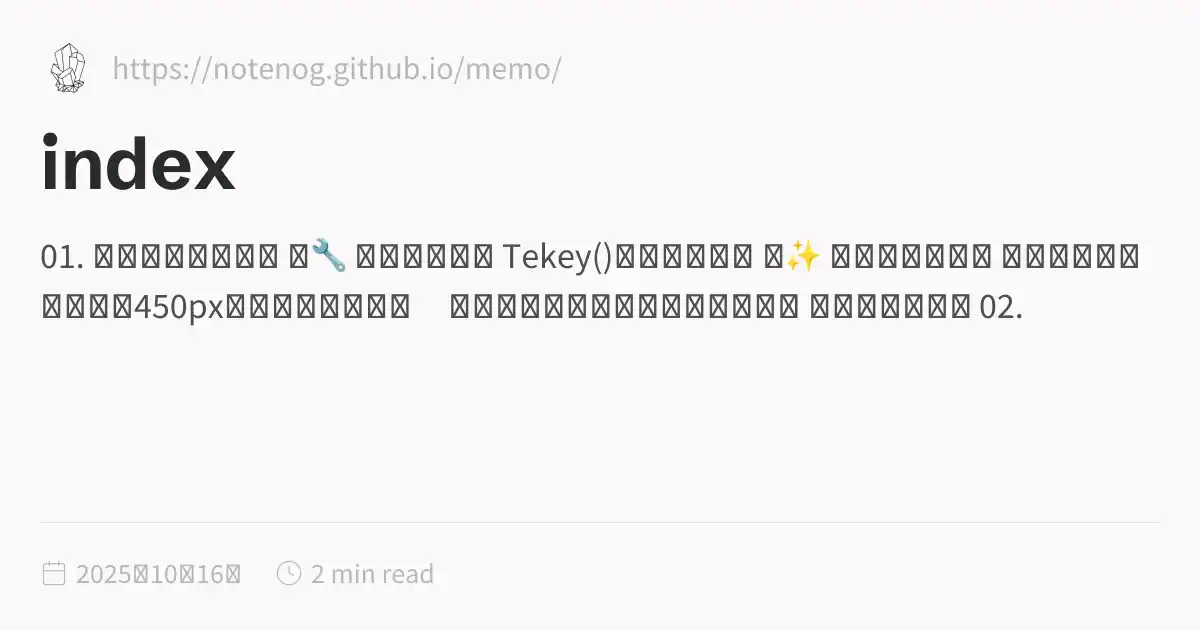
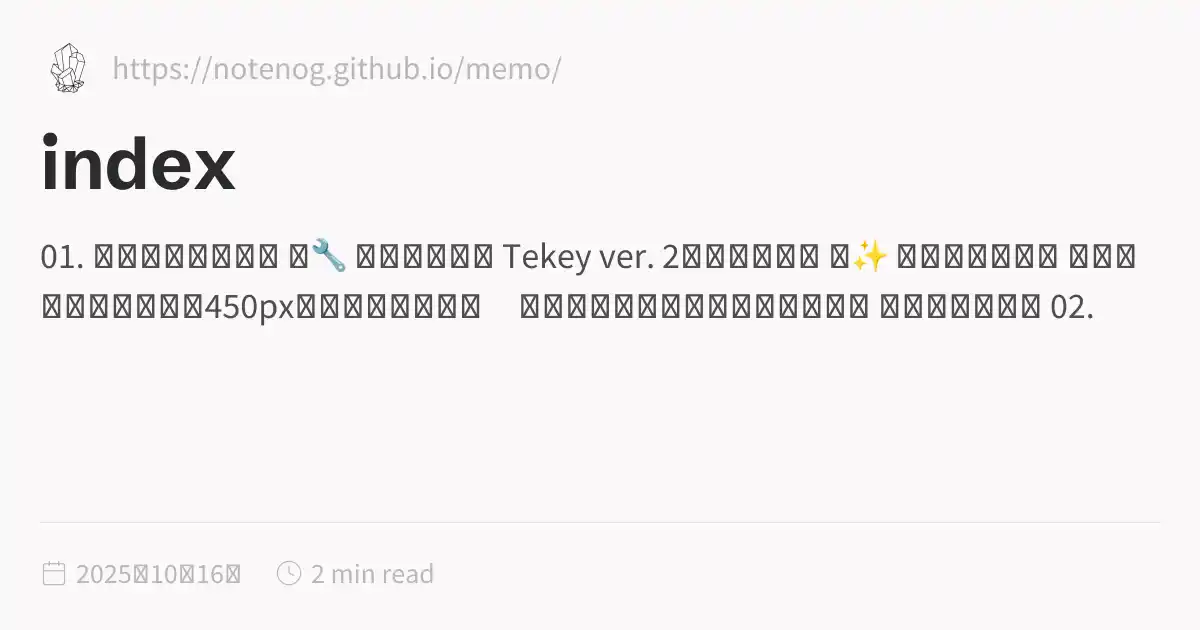
fix: Final push of clean assets with all content emitters disabled

Changed region(s): [[0.3392, 0.3619, 0.9558, 0.5127], [0.0925, 0.4524, 0.2467, 0.5127]]

diff --git a/docs/inSANe_old/index.html b/docs/inSANe_old/index.html
@@ -116,6 +116,6 @@ pre:hover > .expand-button {
   padding: 0 12px;
   font-size: 14px;
 }
[2 lines of base64/hex data omitted]
 </script><script type="module">function f(i,e){if(!i)return;function r(o){o.target===this&&(o.preventDefault(),o.stopPropagation(),e())}function t(o){o.key.startsWith("Esc")&&(o.preventDefault(),e())}i?.addEventListener("click",r),window.addCleanup(()=>i?.removeEventListener("click",r)),document.addEventListener("keydown",t),window.addCleanup(()=>document.removeEventListener("keydown",t))}function y(i){for(;i.firstChild;)i.removeChild(i.firstChild)}var h=class{constructor(e,r){this.container=e;this.content=r;this.setupEventListeners(),this.setupNavigationControls(),this.resetTransform()}isDragging=!1;startPan={x:0,y:0};currentPan={x:0,y:0};scale=1;MIN_SCALE=.5;MAX_SCALE=3;cleanups=[];setupEventListeners(){let e=this.onMouseDown.bind(this),r=this.onMouseMove.bind(this),t=this.onMouseUp.bind(this),o=this.resetTransform.bind(this);this.container.addEventListener("mousedown",e),document.addEventListener("mousemove",r),document.addEventListener("mouseup",t),window.addEventListener("resize",o),this.cleanups.push(()=>this.container.removeEventListener("mousedown",e),()=>document.removeEventListener("mousemove",r),()=>document.removeEventListener("mouseup",t),()=>window.removeEventListener("resize",o))}cleanup(){for(let e of this.cleanups)e()}setupNavigationControls(){let e=document.createElement("div");e.className="mermaid-controls";let r=this.createButton("+",()=>this.zoom(.1)),t=this.createButton("-",()=>this.zoom(-.1)),o=this.createButton("Reset",()=>this.resetTransform());e.appendChild(t),e.appendChild(o),e.appendChild(r),this.container.appendChild(e)}createButton(e,r){let t=document.createElement("button");return t.textContent=e,t.className="mermaid-control-button",t.addEventListener("click",r),window.addCleanup(()=>t.removeEventListener("click",r)),t}onMouseDown(e){e.button===0&&(this.isDragging=!0,this.startPan={x:e.clientX-this.currentPan.x,y:e.clientY-this.currentPan.y},this.container.style.cursor="grabbing")}onMouseMove(e){this.isDragging&&(e.preventDefault(),this.currentPan={x:e.clientX-this.startPan.x,y:e.clientY-this.startPan.y},this.updateTransform())}onMouseUp(){this.isDragging=!1,this.container.style.cursor="grab"}zoom(e){let r=Math.min(Math.max(this.scale+e,this.MIN_SCALE),this.MAX_SCALE),t=this.content.getBoundingClientRect(),o=t.width/2,n=t.height/2,c=r-this.scale;this.currentPan.x-=o*c,this.currentPan.y-=n*c,this.scale=r,this.updateTransform()}updateTransform(){this.content.style.transform=`translate(${this.currentPan.x}px, ${this.currentPan.y}px) scale(${this.scale})`}resetTransform(){this.scale=1;let e=this.content.querySelector("svg");this.currentPan={x:e.getBoundingClientRect().width/2,y:e.getBoundingClientRect().height/2},this.updateTransform()}},C=["--secondary","--tertiary","--gray","--light","--lightgray","--highlight","--dark","--darkgray","--codeFont"],E;document.addEventListener("nav",async()=>{let e=document.querySelector(".center").querySelectorAll("code.mermaid");if(e.length===0)return;E||=await import("https://cdnjs.cloudflare.com/ajax/libs/mermaid/11.4.0/mermaid.esm.min.mjs");let r=E.default,t=new WeakMap;for(let n of e)t.set(n,n.innerText);async function o(){for(let s of e){s.removeAttribute("data-processed");let a=t.get(s);a&&(s.innerHTML=a)}let n=C.reduce((s,a)=>(s[a]=window.getComputedStyle(document.documentElement).getPropertyValue(a),s),{}),c=document.documentElement.getAttribute("saved-theme")==="dark";r.initialize({startOnLoad:!1,securityLevel:"loose",theme:c?"dark":"base",themeVariables:{fontFamily:n["--codeFont"],primaryColor:n["--light"],primaryTextColor:n["--darkgray"],primaryBorderColor:n["--tertiary"],lineColor:n["--darkgray"],secondaryColor:n["--secondary"],tertiaryColor:n["--tertiary"],clusterBkg:n["--light"],edgeLabelBackground:n["--highlight"]}}),await r.run({nodes:e})}await o(),document.addEventListener("themechange",o),window.addCleanup(()=>document.removeEventListener("themechange",o));for(let n=0;n<e.length;n++){let v=function(){let g=l.querySelector("#mermaid-space"),m=l.querySelector(".mermaid-content");if(!m)return;y(m);let w=c.querySelector("svg").cloneNode(!0);m.appendChild(w),l.classList.add("active"),g.style.cursor="grab",u=new h(g,m)},M=function(){l.classList.remove("active"),u?.cleanup(),u=null},c=e[n],s=c.parentElement,a=s.querySelector(".clipboard-button"),d=s.querySelector(".expand-button"),p=window.getComputedStyle(a),L=a.offsetWidth+parseFloat(p.marginLeft||"0")+parseFloat(p.marginRight||"0");d.style.right=`calc(${L}px + 0.3rem)`,s.prepend(d);let l=s.querySelector("#mermaid-container");if(!l)return;let u=null;d.addEventListener("click",v),f(l,M),window.addCleanup(()=>{u?.cleanup(),d.removeEventListener("click",v)})}});
 </script><script src="https://cdn.jsdelivr.net/npm/katex@0.16.11/dist/contrib/copy-tex.min.js" type="application/javascript"></script><script src="../postscript.js" type="module"></script></html>

diff --git a/docs/inSANe_old/inSANe_ond_kyo.html b/docs/inSANe_old/inSANe_ond_kyo.html
@@ -1,0 +1,145 @@
+<!DOCTYPE html>
+<html lang="ja" dir="ltr"><head><title>💃 共演者ルール</title><meta charset="utf-8"/><link rel="preconnect" href="https://fonts.googleapis.com"/><link rel="preconnect" href="https://fonts.gstatic.com"/><link rel="stylesheet" href="https://fonts.googleapis.com/css2?family=Schibsted Grotesk:wght@400;700&amp;family=Source Sans Pro:ital,wght@0,400;0,600;1,400;1,600&amp;family=IBM Plex Mono:wght@400;600&amp;display=swap"/><link rel="preconnect" href="https://cdnjs.cloudflare.com" crossorigin="anonymous"/><meta name="viewport" content="width=device-width, initial-scale=1.0"/><meta name="og:site_name" content="MEMO"/><meta property="og:title" content="💃 共演者ルール"/><meta property="og:type" content="website"/><meta name="twitter:card" content="summary_large_image"/><meta name="twitter:title" content="💃 共演者ルール"/><meta name="twitter:description" content="共演者(ゲスト)とは、PCと同等の動きをするNPCのことを指します。以下のものはインセインp228「NPC」、p229「共演者」の記述等参照のうえ、大々的に調整してあるハウスルールです。「共演者ルールを採用する」という記述のあるセッションの際は必ずご確認を願います。 【💃 共演者ルール】 共演者はPCと同じようにCSを作成し特技・アビリティ・アイテムを使用する。 調査判定、感情判定、恐怖判定、戦闘等の通常PCが可能な行為判定や修正の全てを自発的に行う。 共演者の手番は全てのPCの行動の後に行う。あるいは、全員の手番をダイスで決定する場合は共演者もダイスロールに参加し順番を決定する。 共演者..."/><meta property="og:description" content="共演者(ゲスト)とは、PCと同等の動きをするNPCのことを指します。以下のものはインセインp228「NPC」、p229「共演者」の記述等参照のうえ、大々的に調整してあるハウスルールです。「共演者ルールを採用する」という記述のあるセッションの際は必ずご確認を願います。 【💃 共演者ルール】 共演者はPCと同じようにCSを作成し特技・アビリティ・アイテムを使用する。 調査判定、感情判定、恐怖判定、戦闘等の通常PCが可能な行為判定や修正の全てを自発的に行う。 共演者の手番は全てのPCの行動の後に行う。あるいは、全員の手番をダイスで決定する場合は共演者もダイスロールに参加し順番を決定する。 共演者..."/><meta property="og:image:alt" content="共演者(ゲスト)とは、PCと同等の動きをするNPCのことを指します。以下のものはインセインp228「NPC」、p229「共演者」の記述等参照のうえ、大々的に調整してあるハウスルールです。「共演者ルールを採用する」という記述のあるセッションの際は必ずご確認を願います。 【💃 共演者ルール】 共演者はPCと同じようにCSを作成し特技・アビリティ・アイテムを使用する。 調査判定、感情判定、恐怖判定、戦闘等の通常PCが可能な行為判定や修正の全てを自発的に行う。 共演者の手番は全てのPCの行動の後に行う。あるいは、全員の手番をダイスで決定する場合は共演者もダイスロールに参加し順番を決定する。 共演者..."/><meta property="twitter:domain" content="https://notenog.github.io/memo/"/><meta property="og:url" content="https://https//notenog.github.io/memo/inSANe_old/inSANe_ond_kyo"/><meta property="twitter:url" content="https://https//notenog.github.io/memo/inSANe_old/inSANe_ond_kyo"/><link rel="icon" href="../static/icon.png"/><meta name="description" content="共演者(ゲスト)とは、PCと同等の動きをするNPCのことを指します。以下のものはインセインp228「NPC」、p229「共演者」の記述等参照のうえ、大々的に調整してあるハウスルールです。「共演者ルールを採用する」という記述のあるセッションの際は必ずご確認を願います。 【💃 共演者ルール】 共演者はPCと同じようにCSを作成し特技・アビリティ・アイテムを使用する。 調査判定、感情判定、恐怖判定、戦闘等の通常PCが可能な行為判定や修正の全てを自発的に行う。 共演者の手番は全てのPCの行動の後に行う。あるいは、全員の手番をダイスで決定する場合は共演者もダイスロールに参加し順番を決定する。 共演者..."/><meta name="generator" content="Quartz"/><link href="../index.css" rel="stylesheet" type="text/css" spa-preserve/><style>.expand-button {
+  position: absolute;
+  display: flex;
+  float: right;
+  padding: 0.4rem;
+  margin: 0.3rem;
+  right: 0;
+  color: var(--gray);
+  border-color: var(--dark);
+  background-color: var(--light);
+  border: 1px solid;
+  border-radius: 5px;
+  opacity: 0;
+  transition: 0.2s;
+}
+.expand-button > svg {
+  fill: var(--light);
+  filter: contrast(0.3);
+}
+.expand-button:hover {
+  cursor: pointer;
+  border-color: var(--secondary);
+}
+.expand-button:focus {
+  outline: 0;
+}
+
+pre:hover > .expand-button {
+  opacity: 1;
+  transition: 0.2s;
+}
+
+#mermaid-container {
+  position: fixed;
+  contain: layout;
+  z-index: 999;
+  left: 0;
+  top: 0;
+  width: 100vw;
+  height: 100vh;
+  overflow: hidden;
+  display: none;
+  backdrop-filter: blur(4px);
+  background: rgba(0, 0, 0, 0.5);
+}
+#mermaid-container.active {
+  display: inline-block;
+}
+#mermaid-container > #mermaid-space {
+  border: 1px solid var(--lightgray);
+  background-color: var(--light);
+  border-radius: 5px;
+  position: fixed;
+  top: 50%;
+  left: 50%;
+  transform: translate(-50%, -50%);
+  height: 80vh;
+  width: 80vw;
+  overflow: hidden;
+}
+#mermaid-container > #mermaid-space > .mermaid-content {
+  padding: 2rem;
+  position: relative;
+  transform-origin: 0 0;
+  transition: transform 0.1s ease;
+  overflow: visible;
+  min-height: 200px;
+  min-width: 200px;
+}
+#mermaid-container > #mermaid-space > .mermaid-content pre {
+  margin: 0;
+  border: none;
+}
+#mermaid-container > #mermaid-space > .mermaid-content svg {
+  max-width: none;
+  height: auto;
+}
+#mermaid-container > #mermaid-space > .mermaid-controls {
+  position: absolute;
+  bottom: 20px;
+  right: 20px;
+  display: flex;
+  gap: 8px;
+  padding: 8px;
+  background: var(--light);
+  border: 1px solid var(--lightgray);
+  border-radius: 6px;
+  box-shadow: 0 2px 4px rgba(0, 0, 0, 0.1);
+  z-index: 2;
+}
+#mermaid-container > #mermaid-space > .mermaid-controls .mermaid-control-button {
+  display: flex;
+  align-items: center;
+  justify-content: center;
+  width: 32px;
+  height: 32px;
+  padding: 0;
+  border: 1px solid var(--lightgray);
+  background: var(--light);
+  color: var(--dark);
+  border-radius: 4px;
+  cursor: pointer;
+  font-size: 16px;
+  font-family: var(--bodyFont);
+  transition: all 0.2s ease;
+}
+#mermaid-container > #mermaid-space > .mermaid-controls .mermaid-control-button:hover {
+  background: var(--lightgray);
+}
+#mermaid-container > #mermaid-space > .mermaid-controls .mermaid-control-button:active {
+  transform: translateY(1px);
+}
+#mermaid-container > #mermaid-space > .mermaid-controls .mermaid-control-button:nth-child(2) {
+  width: auto;
+  padding: 0 12px;
+  font-size: 14px;
+}
[1 lines of base64/hex data omitted]
+<br/>
+<br/>
+<blockquote class="callout info is-collapsible is-collapsed" data-callout="info" data-callout-fold>
+<div class="callout-title">
+                  <div class="callout-icon"></div>
+                  <div class="callout-title-inner"><p> <br/>共演者(ゲスト)とは、PCと同等の動きをするNPCのことを指します。<br/>以下のものはインセインp228「NPC」、p229「共演者」の記述等参照のうえ、大々的に調整してあるハウスルールです。<br/><br/>「共演者ルールを採用する」という記述のあるセッションの際は必ずご確認を願います。<br/><br/></p></div>
+                  <div class="fold-callout-icon"></div>
+                </div>
+</blockquote>
+<br/>
+<br/>
+<h1 id="-共演者ルール">【💃 共演者ルール】<a role="anchor" aria-hidden="true" tabindex="-1" data-no-popover="true" href="#-共演者ルール" class="internal"><svg width="18" height="18" viewBox="0 0 24 24" fill="none" stroke="currentColor" stroke-width="2" stroke-linecap="round" stroke-linejoin="round"><path d="M10 13a5 5 0 0 0 7.54.54l3-3a5 5 0 0 0-7.07-7.07l-1.72 1.71"></path><path d="M14 11a5 5 0 0 0-7.54-.54l-3 3a5 5 0 0 0 7.07 7.07l1.71-1.71"></path></svg></a></h1>
+<hr/>
+<ul>
+<li>共演者はPCと同じようにCSを作成し特技・アビリティ・アイテムを使用する。</li>
+<li>調査判定、感情判定、恐怖判定、戦闘等の通常PCが可能な行為判定や修正の全てを自発的に行う。</li>
+<li>共演者の手番は全てのPCの行動の後に行う。<br/>あるいは、全員の手番をダイスで決定する場合は共演者もダイスロールに参加し順番を決定する。</li>
+<li>共演者は「回想」を行う。(行わない場合は事前に告知する)</li>
+<li>クライマックスフェイズで共演者の生命力が０になった場合、それを行ったプレイヤーはその共演者を死亡させるかを選ぶことが出来る。</li>
+<li>共演者は死亡時の「攻撃」や「遺言」を使用することは出来ない。</li>
+<li>功績点「ロールプレイ」において、共演者は除外される。</li>
+<li>功績点「琴線」において、共演者を選ぶことは出来ない。</li>
+</ul>
+<p><br/><br/><br/></p></article><hr/><div class="page-footer"></div></div><div class="right sidebar"><div class="search"><button class="search-button"><svg role="img" xmlns="http://www.w3.org/2000/svg" viewBox="0 0 19.9 19.7"><title>Search</title><g class="search-path" fill="none"><path stroke-linecap="square" d="M18.5 18.3l-5.4-5.4"></path><circle cx="8" cy="8" r="7"></circle></g></svg><p>Search</p></button><div class="search-container"><div class="search-space"><input autocomplete="off" class="search-bar" name="search" type="text" aria-label="検索ワードを入力" placeholder="検索ワードを入力"/><div class="search-layout" data-preview="true"></div></div></div></div></div><footer class><p>Created with <a href="https://quartz.jzhao.xyz/">Quartz v4.5.2</a> © 2025</p><ul><li><a href="https://discordapp.com/users/318729033737043969">@disconog</a></li></ul></footer></div></div></body><script type="application/javascript">function n(){let t=this.parentElement;t.classList.toggle("is-collapsed");let e=t.getElementsByClassName("callout-content")[0];if(!e)return;let l=t.classList.contains("is-collapsed");e.style.gridTemplateRows=l?"0fr":"1fr"}function c(){let t=document.getElementsByClassName("callout is-collapsible");for(let e of t){let l=e.getElementsByClassName("callout-title")[0],s=e.getElementsByClassName("callout-content")[0];if(!l||!s)continue;l.addEventListener("click",n),window.addCleanup(()=>l.removeEventListener("click",n));let o=e.classList.contains("is-collapsed");s.style.gridTemplateRows=o?"0fr":"1fr"}}document.addEventListener("nav",c);
+</script><script type="module">function f(i,e){if(!i)return;function r(o){o.target===this&&(o.preventDefault(),o.stopPropagation(),e())}function t(o){o.key.startsWith("Esc")&&(o.preventDefault(),e())}i?.addEventListener("click",r),window.addCleanup(()=>i?.removeEventListener("click",r)),document.addEventListener("keydown",t),window.addCleanup(()=>document.removeEventListener("keydown",t))}function y(i){for(;i.firstChild;)i.removeChild(i.firstChild)}var h=class{constructor(e,r){this.container=e;this.content=r;this.setupEventListeners(),this.setupNavigationControls(),this.resetTransform()}isDragging=!1;startPan={x:0,y:0};currentPan={x:0,y:0};scale=1;MIN_SCALE=.5;MAX_SCALE=3;cleanups=[];setupEventListeners(){let e=this.onMouseDown.bind(this),r=this.onMouseMove.bind(this),t=this.onMouseUp.bind(this),o=this.resetTransform.bind(this);this.container.addEventListener("mousedown",e),document.addEventListener("mousemove",r),document.addEventListener("mouseup",t),window.addEventListener("resize",o),this.cleanups.push(()=>this.container.removeEventListener("mousedown",e),()=>document.removeEventListener("mousemove",r),()=>document.removeEventListener("mouseup",t),()=>window.removeEventListener("resize",o))}cleanup(){for(let e of this.cleanups)e()}setupNavigationControls(){let e=document.createElement("div");e.className="mermaid-controls";let r=this.createButton("+",()=>this.zoom(.1)),t=this.createButton("-",()=>this.zoom(-.1)),o=this.createButton("Reset",()=>this.resetTransform());e.appendChild(t),e.appendChild(o),e.appendChild(r),this.container.appendChild(e)}createButton(e,r){let t=document.createElement("button");return t.textContent=e,t.className="mermaid-control-button",t.addEventListener("click",r),window.addCleanup(()=>t.removeEventListener("click",r)),t}onMouseDown(e){e.button===0&&(this.isDragging=!0,this.startPan={x:e.clientX-this.currentPan.x,y:e.clientY-this.currentPan.y},this.container.style.cursor="grabbing")}onMouseMove(e){this.isDragging&&(e.preventDefault(),this.currentPan={x:e.clientX-this.startPan.x,y:e.clientY-this.startPan.y},this.updateTransform())}onMouseUp(){this.isDragging=!1,this.container.style.cursor="grab"}zoom(e){let r=Math.min(Math.max(this.scale+e,this.MIN_SCALE),this.MAX_SCALE),t=this.content.getBoundingClientRect(),o=t.width/2,n=t.height/2,c=r-this.scale;this.currentPan.x-=o*c,this.currentPan.y-=n*c,this.scale=r,this.updateTransform()}updateTransform(){this.content.style.transform=`translate(${this.currentPan.x}px, ${this.currentPan.y}px) scale(${this.scale})`}resetTransform(){this.scale=1;let e=this.content.querySelector("svg");this.currentPan={x:e.getBoundingClientRect().width/2,y:e.getBoundingClientRect().height/2},this.updateTransform()}},C=["--secondary","--tertiary","--gray","--light","--lightgray","--highlight","--dark","--darkgray","--codeFont"],E;document.addEventListener("nav",async()=>{let e=document.querySelector(".center").querySelectorAll("code.mermaid");if(e.length===0)return;E||=await import("https://cdnjs.cloudflare.com/ajax/libs/mermaid/11.4.0/mermaid.esm.min.mjs");let r=E.default,t=new WeakMap;for(let n of e)t.set(n,n.innerText);async function o(){for(let s of e){s.removeAttribute("data-processed");let a=t.get(s);a&&(s.innerHTML=a)}let n=C.reduce((s,a)=>(s[a]=window.getComputedStyle(document.documentElement).getPropertyValue(a),s),{}),c=document.documentElement.getAttribute("saved-theme")==="dark";r.initialize({startOnLoad:!1,securityLevel:"loose",theme:c?"dark":"base",themeVariables:{fontFamily:n["--codeFont"],primaryColor:n["--light"],primaryTextColor:n["--darkgray"],primaryBorderColor:n["--tertiary"],lineColor:n["--darkgray"],secondaryColor:n["--secondary"],tertiaryColor:n["--tertiary"],clusterBkg:n["--light"],edgeLabelBackground:n["--highlight"]}}),await r.run({nodes:e})}await o(),document.addEventListener("themechange",o),window.addCleanup(()=>document.removeEventListener("themechange",o));for(let n=0;n<e.length;n++){let v=function(){let g=l.querySelector("#mermaid-space"),m=l.querySelector(".mermaid-content");if(!m)return;y(m);let w=c.querySelector("svg").cloneNode(!0);m.appendChild(w),l.classList.add("active"),g.style.cursor="grab",u=new h(g,m)},M=function(){l.classList.remove("active"),u?.cleanup(),u=null},c=e[n],s=c.parentElement,a=s.querySelector(".clipboard-button"),d=s.querySelector(".expand-button"),p=window.getComputedStyle(a),L=a.offsetWidth+parseFloat(p.marginLeft||"0")+parseFloat(p.marginRight||"0");d.style.right=`calc(${L}px + 0.3rem)`,s.prepend(d);let l=s.querySelector("#mermaid-container");if(!l)return;let u=null;d.addEventListener("click",v),f(l,M),window.addCleanup(()=>{u?.cleanup(),d.removeEventListener("click",v)})}});
+</script><script src="https://cdn.jsdelivr.net/npm/katex@0.16.11/dist/contrib/copy-tex.min.js" type="application/javascript"></script><script src="../postscript.js" type="module"></script></html>

diff --git a/docs/index.html b/docs/index.html
@@ -1,5 +1,5 @@
 <!DOCTYPE html>
-<html lang="ja" dir="ltr"><head><title>index</title><meta charset="utf-8"/><link rel="preconnect" href="https://fonts.googleapis.com"/><link rel="preconnect" href="https://fonts.gstatic.com"/><link rel="stylesheet" href="https://fonts.googleapis.com/css2?family=Schibsted Grotesk:wght@400;700&amp;family=Source Sans Pro:ital,wght@0,400;0,600;1,400;1,600&amp;family=IBM Plex Mono:wght@400;600&amp;display=swap"/><link rel="preconnect" href="https://cdnjs.cloudflare.com" crossorigin="anonymous"/><meta name="viewport" content="width=device-width, initial-scale=1.0"/><meta name="og:site_name" content="MEMO"/><meta property="og:title" content="index"/><meta property="og:type" content="website"/><meta name="twitter:card" content="summary_large_image"/><meta name="twitter:title" content="index"/><meta name="twitter:description" content="01. セッション前準備 【🔧 使用ツール】 Tekey()を使用します 【✨ 立ち絵サイズ】 用意される場合は、縦450pxを基準に、「股下～膝上」程度にカットを推奨します 横幅は自由です 02."/><meta property="og:description" content="01. セッション前準備 【🔧 使用ツール】 Tekey()を使用します 【✨ 立ち絵サイズ】 用意される場合は、縦450pxを基準に、「股下～膝上」程度にカットを推奨します 横幅は自由です 02."/><meta property="og:image:alt" content="01. セッション前準備 【🔧 使用ツール】 Tekey()を使用します 【✨ 立ち絵サイズ】 用意される場合は、縦450pxを基準に、「股下～膝上」程度にカットを推奨します 横幅は自由です 02."/><meta property="twitter:domain" content="https://notenog.github.io/memo/"/><meta property="og:url" content="https://https//notenog.github.io/memo/index"/><meta property="twitter:url" content="https://https//notenog.github.io/memo/index"/><link rel="icon" href="./static/icon.png"/><meta name="description" content="01. セッション前準備 【🔧 使用ツール】 Tekey()を使用します 【✨ 立ち絵サイズ】 用意される場合は、縦450pxを基準に、「股下～膝上」程度にカットを推奨します 横幅は自由です 02."/><meta name="generator" content="Quartz"/><link href="./index.css" rel="stylesheet" type="text/css" spa-preserve/><style>.expand-button {
+<html lang="ja" dir="ltr"><head><title>index</title><meta charset="utf-8"/><link rel="preconnect" href="https://fonts.googleapis.com"/><link rel="preconnect" href="https://fonts.gstatic.com"/><link rel="stylesheet" href="https://fonts.googleapis.com/css2?family=Schibsted Grotesk:wght@400;700&amp;family=Source Sans Pro:ital,wght@0,400;0,600;1,400;1,600&amp;family=IBM Plex Mono:wght@400;600&amp;display=swap"/><link rel="preconnect" href="https://cdnjs.cloudflare.com" crossorigin="anonymous"/><meta name="viewport" content="width=device-width, initial-scale=1.0"/><meta name="og:site_name" content="MEMO"/><meta property="og:title" content="index"/><meta property="og:type" content="website"/><meta name="twitter:card" content="summary_large_image"/><meta name="twitter:title" content="index"/><meta name="twitter:description" content="01. セッション前準備 【🔧 使用ツール】 Tekey ver. 2を使用します 【✨ 立ち絵サイズ】 用意される場合は、縦450pxを基準に、「股下～膝上」程度にカットを推奨します 横幅は自由です 02."/><meta property="og:description" content="01. セッション前準備 【🔧 使用ツール】 Tekey ver. 2を使用します 【✨ 立ち絵サイズ】 用意される場合は、縦450pxを基準に、「股下～膝上」程度にカットを推奨します 横幅は自由です 02."/><meta property="og:image:alt" content="01. セッション前準備 【🔧 使用ツール】 Tekey ver. 2を使用します 【✨ 立ち絵サイズ】 用意される場合は、縦450pxを基準に、「股下～膝上」程度にカットを推奨します 横幅は自由です 02."/><meta property="twitter:domain" content="https://notenog.github.io/memo/"/><meta property="og:url" content="https://https//notenog.github.io/memo/index"/><meta property="twitter:url" content="https://https//notenog.github.io/memo/index"/><link rel="icon" href="./static/icon.png"/><meta name="description" content="01. セッション前準備 【🔧 使用ツール】 Tekey ver. 2を使用します 【✨ 立ち絵サイズ】 用意される場合は、縦450pxを基準に、「股下～膝上」程度にカットを推奨します 横幅は自由です 02."/><meta name="generator" content="Quartz"/><link href="./index.css" rel="stylesheet" type="text/css" spa-preserve/><style>.expand-button {
   position: absolute;
   display: flex;
   float: right;
@@ -121,7 +121,7 @@ pre:hover > .expand-button {
 <h2 id="-使用ツール">【🔧 使用ツール】<a role="anchor" aria-hidden="true" tabindex="-1" data-no-popover="true" href="#-使用ツール" class="internal"><svg width="18" height="18" viewBox="0 0 24 24" fill="none" stroke="currentColor" stroke-width="2" stroke-linecap="round" stroke-linejoin="round"><path d="M10 13a5 5 0 0 0 7.54.54l3-3a5 5 0 0 0-7.07-7.07l-1.72 1.71"></path><path d="M14 11a5 5 0 0 0-7.54-.54l-3 3a5 5 0 0 0 7.07 7.07l1.71-1.71"></path></svg></a></h2>
 <blockquote>
 <ul>
-<li>Tekey()を使用します</li>
+<li><a href="https://tekey.jp/game" class="external">Tekey ver. 2<svg aria-hidden="true" class="external-icon" style="max-width:0.8em;max-height:0.8em;" viewBox="0 0 512 512"><path d="M320 0H288V64h32 82.7L201.4 265.4 178.7 288 224 333.3l22.6-22.6L448 109.3V192v32h64V192 32 0H480 320zM32 32H0V64 480v32H32 456h32V480 352 320H424v32 96H64V96h96 32V32H160 32z"></path></svg></a>を使用します</li>
 </ul>
 </blockquote>
 <p><br/> <br/></p>
@@ -141,14 +141,14 @@ pre:hover > .expand-button {
 <p><br/> <br/></p>
 <h2 id="-文字色">【🎨 文字色】<a role="anchor" aria-hidden="true" tabindex="-1" data-no-popover="true" href="#-文字色" class="internal"><svg width="18" height="18" viewBox="0 0 24 24" fill="none" stroke="currentColor" stroke-width="2" stroke-linecap="round" stroke-linejoin="round"><path d="M10 13a5 5 0 0 0 7.54.54l3-3a5 5 0 0 0-7.07-7.07l-1.72 1.71"></path><path d="M14 11a5 5 0 0 0-7.54-.54l-3 3a5 5 0 0 0 7.07 7.07l1.71-1.71"></path></svg></a></h2>
 <ul>
-<li>通常、GMは赤・灰・黒系を使用します</li>
+<li>通常、GMは<code>赤・灰・黒</code>系を使用します</li>
 <li>それ以外の色の使用をお願いします</li>
 </ul>
 <p><br/> <br/></p>
 <h2 id="-スクリーンショットの公開">【📸 スクリーンショットの公開】<a role="anchor" aria-hidden="true" tabindex="-1" data-no-popover="true" href="#-スクリーンショットの公開" class="internal"><svg width="18" height="18" viewBox="0 0 24 24" fill="none" stroke="currentColor" stroke-width="2" stroke-linecap="round" stroke-linejoin="round"><path d="M10 13a5 5 0 0 0 7.54.54l3-3a5 5 0 0 0-7.07-7.07l-1.72 1.71"></path><path d="M14 11a5 5 0 0 0-7.54-.54l-3 3a5 5 0 0 0 7.07 7.07l1.71-1.71"></path></svg></a></h2>
 <ul>
 <li><strong>ネタバレの配慮</strong>をして頂ければX(Twitter)等にあげて頂いて問題ありません</li>
-<li>厳密には「NPC」「マップ」「エネミー」等は映さないようによく注意して下さい</li>
+<li>厳密には<code>「NPC」「マップ」「エネミー」</code>等は映さないようによく注意して下さい</li>
 <li>ただし、セッション中にGMから別途指示がある場合はそちらを優先して下さい</li>
 </ul>
 <p><br/> <br/></p></article><hr/><div class="page-footer"></div></div><div class="right sidebar"><div class="search"><button class="search-button"><svg role="img" xmlns="http://www.w3.org/2000/svg" viewBox="0 0 19.9 19.7"><title>Search</title><g class="search-path" fill="none"><path stroke-linecap="square" d="M18.5 18.3l-5.4-5.4"></path><circle cx="8" cy="8" r="7"></circle></g></svg><p>Search</p></button><div class="search-container"><div class="search-space"><input autocomplete="off" class="search-bar" name="search" type="text" aria-label="検索ワードを入力" placeholder="検索ワードを入力"/><div class="search-layout" data-preview="true"></div></div></div></div><div class="toc desktop-only"><button type="button" class="toc-header" aria-controls="toc-1" aria-expanded="true"><h3>📄 Contents</h3><svg xmlns="http://www.w3.org/2000/svg" width="24" height="24" viewBox="0 0 24 24" fill="none" stroke="currentColor" stroke-width="2" stroke-linecap="round" stroke-linejoin="round" class="fold"><polyline points="6 9 12 15 18 9"></polyline></svg></button><ul id="list-1" class="toc-content overflow"><li class="depth-0"><a href="#01-セッション前準備" data-for="01-セッション前準備">01. セッション前準備</a></li><li class="depth-1"><a href="#-使用ツール" data-for="-使用ツール">【🔧 使用ツール】</a></li><li class="depth-1"><a href="#-立ち絵サイズ" data-for="-立ち絵サイズ">【✨ 立ち絵サイズ】</a></li><li class="depth-0"><a href="#02-セッション当日準備" data-for="02-セッション当日準備">02. セッション当日準備</a></li><li class="depth-1"><a href="#-立ち絵位置" data-for="-立ち絵位置">【💁♀ 立ち絵位置】</a></li><li class="depth-1"><a href="#-文字色" data-for="-文字色">【🎨 文字色】</a></li><li class="depth-1"><a href="#-スクリーンショットの公開" data-for="-スクリーンショットの公開">【📸 スクリーンショットの公開】</a></li><li class="overflow-end"></li></ul></div></div><footer class><p>Created with <a href="https://quartz.jzhao.xyz/">Quartz v4.5.2</a> © 2025</p><ul><li><a href="https://discordapp.com/users/318729033737043969">@disconog</a></li></ul></footer></div></div></body><script type="application/javascript">function n(){let t=this.parentElement;t.classList.toggle("is-collapsed");let e=t.getElementsByClassName("callout-content")[0];if(!e)return;let l=t.classList.contains("is-collapsed");e.style.gridTemplateRows=l?"0fr":"1fr"}function c(){let t=document.getElementsByClassName("callout is-collapsible");for(let e of t){let l=e.getElementsByClassName("callout-title")[0],s=e.getElementsByClassName("callout-content")[0];if(!l||!s)continue;l.addEventListener("click",n),window.addCleanup(()=>l.removeEventListener("click",n));let o=e.classList.contains("is-collapsed");s.style.gridTemplateRows=o?"0fr":"1fr"}}document.addEventListener("nav",c);

diff --git a/content/inSANe_old/inSANe_ond_kyo.md b/content/inSANe_old/inSANe_ond_kyo.md
@@ -4,12 +4,15 @@ draft: false
 ---
 ___
 
-> [!info]- 共演者(ゲスト)とは、PCと同等の動きをするNPCのことを指します。<br>以下のものはインセインp228「NPC」、p229「共演者」の記述等参照のうえ、大々的に調整してあるハウスルールです。<br><br>`「共演者ルールを採用する」という記述のあるセッションの際は必ずご確認を願います。`
+<br>
+<br>
+
+> [!info]- <br>共演者(ゲスト)とは、PCと同等の動きをするNPCのことを指します。<br>以下のものはインセインp228「NPC」、p229「共演者」の記述等参照のうえ、大々的に調整してあるハウスルールです。<br><br>「共演者ルールを採用する」という記述のあるセッションの際は必ずご確認を願います。<br><br>
 
 <br>
 <br>
 
-# 【共演者ルール】
+# 【💃 共演者ルール】
 ___
 * 共演者はPCと同じようにCSを作成し特技・アビリティ・アイテムを使用する。
 * 調査判定、感情判定、恐怖判定、戦闘等の通常PCが可能な行為判定や修正の全てを自発的に行う。

diff --git a/content/index.md b/content/index.md
@@ -7,7 +7,7 @@ draft: false
 ___
 ## 【🔧 使用ツール】
 
-> * Tekey()を使用します
+> * [Tekey ver. 2](https://tekey.jp/game)を使用します
 
 <br> <br> 
 
@@ -27,14 +27,14 @@ ___
   
 ## 【🎨 文字色】
 
-* 通常、GMは赤・灰・黒系を使用します
+* 通常、GMは`赤・灰・黒`系を使用します
 * それ以外の色の使用をお願いします
 
 <br> <br> 
   
 ## 【📸 スクリーンショットの公開】
 * **ネタバレの配慮**をして頂ければX(Twitter)等にあげて頂いて問題ありません
-* 厳密には「NPC」「マップ」「エネミー」等は映さないようによく注意して下さい  
+* 厳密には`「NPC」「マップ」「エネミー」`等は映さないようによく注意して下さい  
 * ただし、セッション中にGMから別途指示がある場合はそちらを優先して下さい
 
 <br> <br> 
